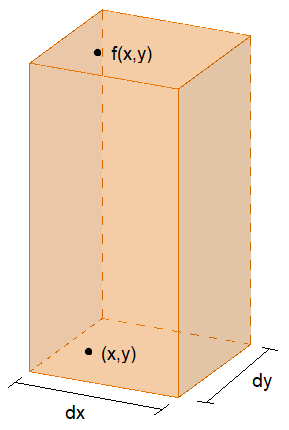
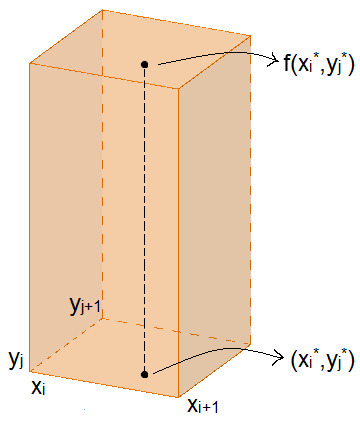
alteracoes do prof

diff --git a/riemann-3d/index.html b/riemann-3d/index.html
@@ -66,7 +66,7 @@
 				<img src="../imagens/mouse-click-right.png"/><b class="fonte8"> Visualização</b>
 			</div>
 		</div>
-		<h3>Determine os valores</h3><br>
+		<h3>Integral dupla por Soma de Riemann</h3><br>
 		<div class="row" align="middle">
 			<div class="col-sm-6">
 				<br><br>`f(x,y)=`
@@ -75,13 +75,13 @@
 					<br>
 					<div class="col-sm-6">
 						<b>Domínio</b>
-						<br><br>`xmin=`
+						<br><br>`x_min=`
 						<input type="text" id="xmin" size="3" value="0">
-						<br><br>`xmax=`
+						<br><br>`x_max=`
 						<input type="text" id="xmax" size="3" value="4">
-						<br><br>`ymin=`
+						<br><br>`y_min=`
 						<input type="text" id="ymin" size="3" value="0">
-						<br><br>`ymax=`
+						<br><br>`y_max=`
 						<input type="text" id="ymax" size="3" value="4">
 					</div>
 					<div class="col-sm-6">
@@ -114,26 +114,36 @@
 				<img src="../imagens/mouse-click.png"/><b class="fonte8">Visualização </b>
 				<img src="../imagens/mouse-scroll.png"><b class="fonte8"> Zoom</b>
 				<br><br>
-				(*)Em relação aos valores f(x,y) dos vértices das partições.
+				(*)Em relação aos valores f(x,y) dos vértices das células.
 			</div>
 		</div>
 		<br>
-		<div class="row" align="middle">
+		<div class="row">
 			<div class="col-sm-2"></div>
-			<div class="col-sm-8" align="middle">
+			<div class="col-sm-8">
 				<h3>Como foi calculado?</h3>
 				<br>
-				<div class="col-sm-8">
-					<p style="padding-top: 10%" class="recuo">A Soma de Riemann em três dimenções pode ser obtida com partições de tamanhos aleatórios (dx X dy) e altura dos prismas f(x,y) em função de qualquer ponto (x,y) de cada partição de acordo com a figura ao lado. O valor da integral é obtido quando o número de partições tendem ao infinito.</p><br>
-				</div>
-				<div class="col-sm-4">
-					<img width="150" src="../imagens/prisma.PNG">
+				<div class="row">
+					<div class="col-sm-8">
+						<p style="padding-top: 10%" class="recuo">A Soma de Riemann em três dimenções pode ser obtida com células de tamanho arbitrário `[x_i,x_(i+1)]xx[y_i,y_(i+1)]` e altura dos prismas `f(x"*",y"*")` em função de um ponto qualquer `(x"*",y"*")` de cada partição, de acordo com a figura ao lado. O valor da integral `intint_D f(x,y)dxdy` em `D=[x_min,x_max]xx[y_min,y_max]` é obtido quando o número de partições em `x` e `y` tendem ao infinito.</p><br>
+					</div>
+					<div class="col-sm-4">
+						<img width="200" src="../imagens/prisma.PNG">
+					</div>
 				</div>
 				<p class="recuo">Porém, a fim de simplificar os cálculos optamos pelo seguinte método:</p><br>
-				<p class="recuo">Inicialmente o domínio é particionado, uniformimente, com `n` células em `x` e `m` células em `y`, de forma que cada partição possua a mesma dimensão. Sendo assim, `dx` e `dy` são constantes com `dx = (xmax-xmin)/n` e `dy = (ymax-ymin)/m`.</p><br>
-				<img width="300" src="../imagens/particoes.PNG"><br>
-				<p class="recuo">Em seguida, é calculado um prisma para cada partição. Esse possui base `dx xx dy` e altura de acordo com o valor máximo ou mínimo de cada vértice da partição, de acordo com a escolha feita.</p>
-				<img width="500" src="../imagens/tipos-soma.png">
+				<p class="recuo">Inicialmente o domínio é particionado, homogeneamente, com `n` partições em `x` e `m` em `y`, de forma que cada célula possui a mesma dimensão `Deltax xx Deltay`, sendo `Deltax = (x_max-x_min)/n` e `Deltay = (y_max-y_min)/m`.</p><br>
+				<div align="middle">
+					<img width="300" src="../imagens/particoes.PNG"><br>
+				</div>
+				<p class="recuo">Em seguida, é calculado um prisma para cada célula. A altura `f(x,y)` de cada prisma é determinado de acordo com o tipo de integração escolhido:</p>
+				<ul>
+					<li><b>Integração por soma inferior</b>: a altura do prisma é o <ins>menor</ins> valor da função entre os vértices da célula;</li>
+					<li><b>Integração por soma superior</b>: a altura do prisma é o <ins>maior</ins> valor da função entre os vértices da célula;</li>
+				</ul>
+				<div align="middle">
+					<img width="500" src="../imagens/tipos-soma.png">
+				</div>
 			</div>
 			<div class="col-sm-2"></div>
 		</div>

diff --git a/riemann-3d/riemann-3d.js b/riemann-3d/riemann-3d.js
@@ -58,18 +58,20 @@ window.onload = function() {
 var ggb1 = document.ggb1;
 var ggb2 = document.ggb2;
 var x1,x2,y1,y2,z1,z2; //variaveis da escala do grafico
+var setggb2 = false;
 
 function ggbOnInit(){
 	ggb1 = document.ggb1;
+	ggb2 = document.ggb2;
 	ggb1.enableRightClick(false);
 	ggb1.enableLabelDrags(false);
 	ggb1.setCoordSystem(0,4,0,4,0,4);
-	ggb2 = document.ggb2;
+
 	ggb2.enableRightClick(false);
 	ggb2.enableLabelDrags(false);
-	ggb2.setCoordSystem(-4,4,-4,4,-4,4);
 	ggb2.evalCommand('inty = Integral(4-x^2/16-y^2/16, y)');
-	//ggb2.setVisible('inty',false);
+	if(!setggb2)
+		ggb2.setCoordSystem(-4,4,-4,4,-4,4);
 }
 
 function setParticoes1(){
@@ -106,6 +108,7 @@ function setParticoes2(){
 	integracaoSuperior(Number(xmin),Number(xmax),Number(ymin),Number(ymax),Number(n),Number(m));
 	ggb2.setCoordSystem(x1,x2,y1,y2,z1,z2);
 	document.getElementById('valorExato').innerHTML = ggb2.getValue('def').toFixed(2);
+	setggb2 = true;
 }
 
 function riemann1(px,py){
